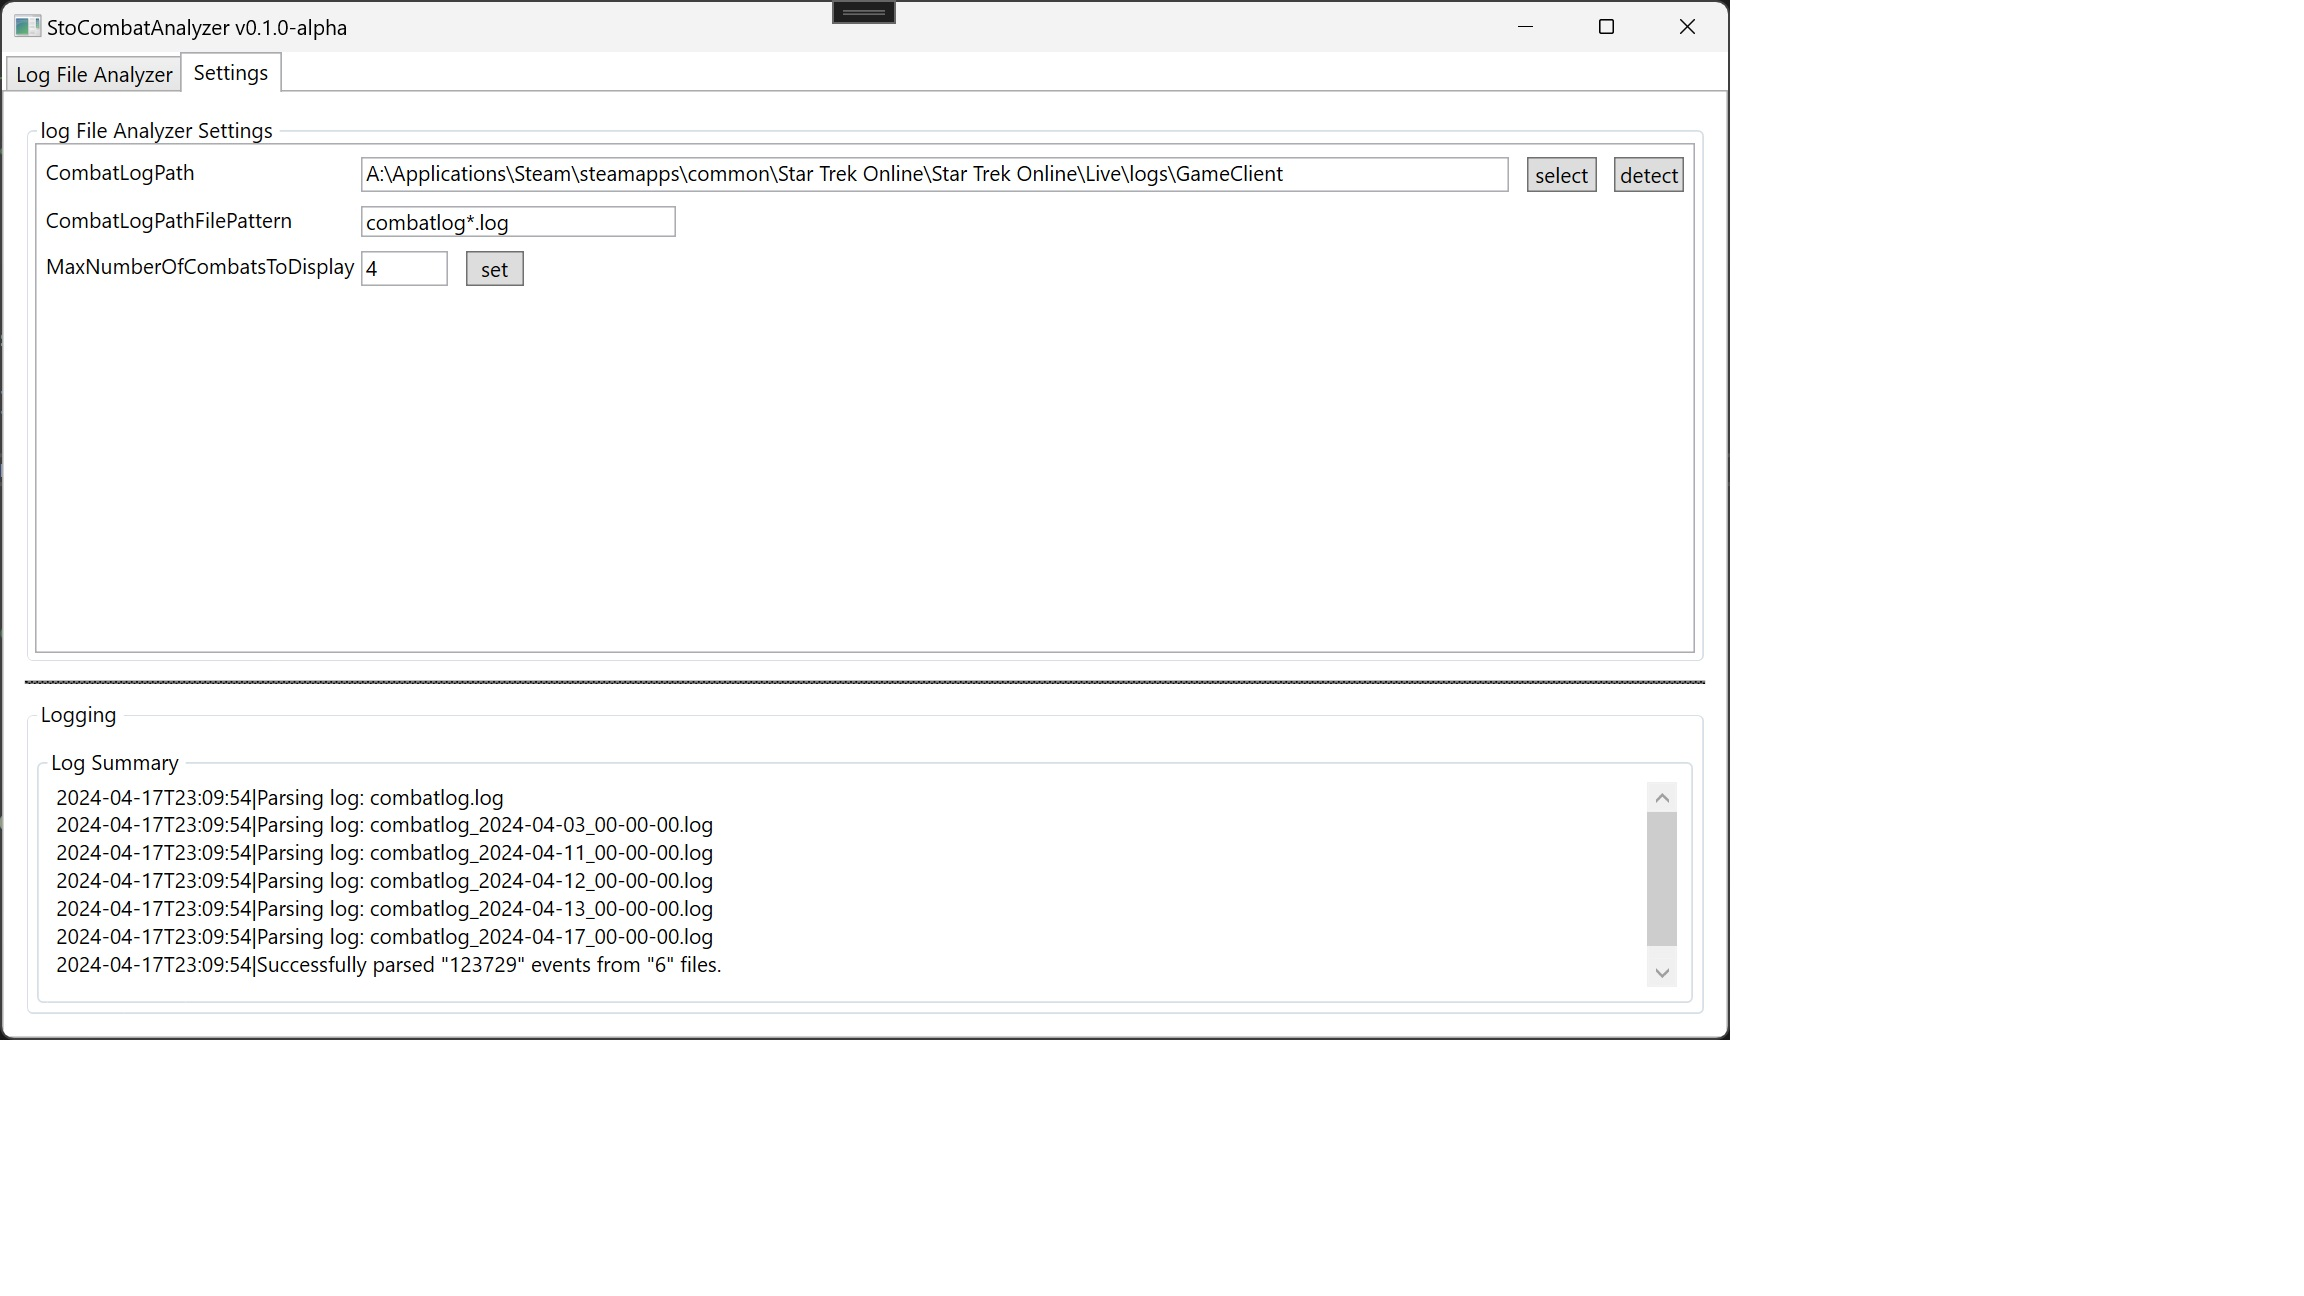
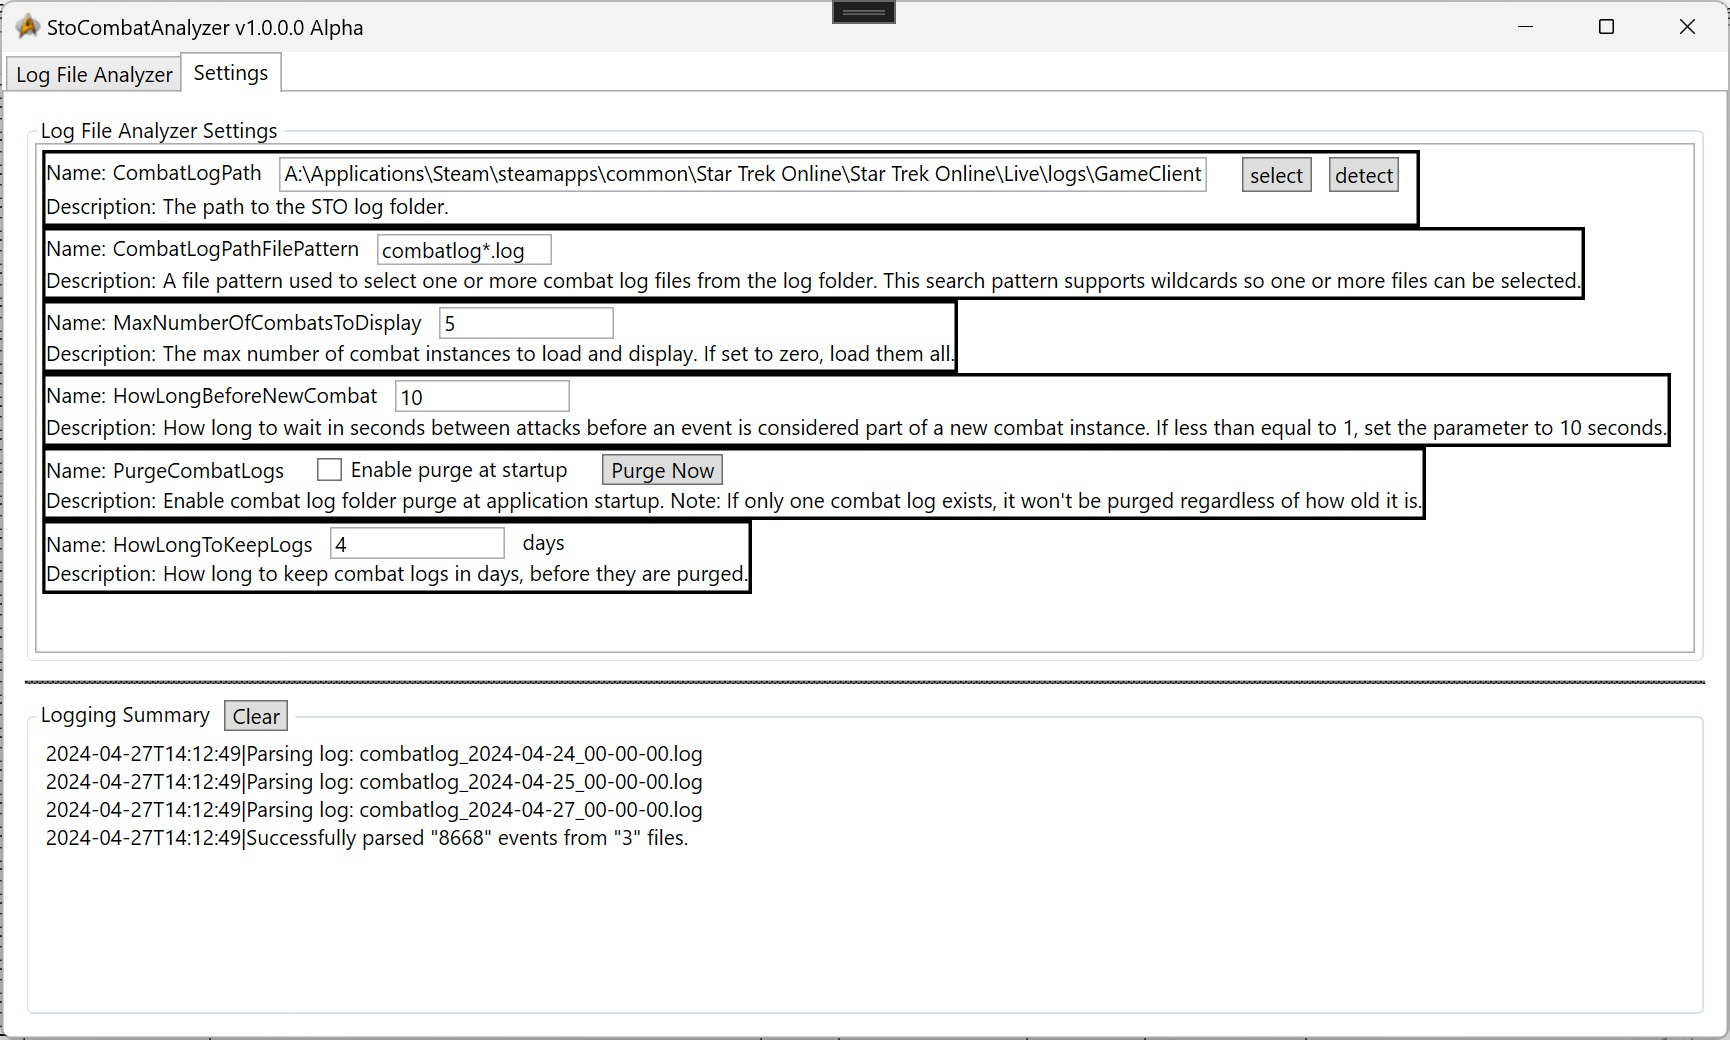
add logic so main plot will clear when a log parse is done.  Added new screen shots to reflect where the application is.

diff --git a/zxeltor.StoCombatAnalyser.Interface/Controls/SettingsUserControl.xaml b/zxeltor.StoCombatAnalyser.Interface/Controls/SettingsUserControl.xaml
@@ -108,7 +108,9 @@
                     </StackPanel>
                     <StackPanel Grid.Row="1" Orientation="Horizontal" Width="Auto">
                         <TextBlock VerticalAlignment="Center" HorizontalAlignment="Center">Description:</TextBlock>
-                        <TextBlock Margin="4,0,0,0" HorizontalAlignment="Stretch" VerticalAlignment="Stretch">How long to keep combat log files in days, before purging them. Note: If only one combat log exists, it won't be purged regardless of how old it is.</TextBlock>
+                        <TextBlock Margin="4,0,0,0" HorizontalAlignment="Stretch" VerticalAlignment="Stretch">
+                            Enable combat log folder purge at application startup. Note: If only one combat log exists, it won't be purged regardless of how old it is.
+                        </TextBlock>
                     </StackPanel>
                 </Grid>
             </ListBoxItem>
@@ -127,7 +129,7 @@
                     </StackPanel>
                     <StackPanel Grid.Row="1" Orientation="Horizontal" Width="Auto">
                         <TextBlock VerticalAlignment="Center" HorizontalAlignment="Center">Description:</TextBlock>
-                        <TextBlock Margin="4,0,0,0" HorizontalAlignment="Stretch" VerticalAlignment="Stretch">How long to keep logs in days, before they are purged. PurgeCombatLogs needs to be enabled for this feature.</TextBlock>
+                        <TextBlock Margin="4,0,0,0" HorizontalAlignment="Stretch" VerticalAlignment="Stretch">How long to keep combat logs in days, before they are purged.</TextBlock>
                     </StackPanel>
                 </Grid>
             </ListBoxItem>

diff --git a/zxeltor.StoCombatAnalyser.Interface/MainWindow.xaml b/zxeltor.StoCombatAnalyser.Interface/MainWindow.xaml
@@ -400,7 +400,14 @@
                         </Grid>
                     </GroupBox>
 
-                    <GroupBox Header="Logging Summary" Grid.Row="1" Margin="10,10,10,10">
+                    <GroupBox Grid.Row="1" Margin="10,10,10,10">
+                        <GroupBox.Header>
+                            <StackPanel Orientation="Horizontal">
+                                <TextBlock>Logging Summary</TextBlock>
+                                <Button Content="Clear" Margin="8,0,0,0" Padding="4,0,4,0"
+                                        Click="ClearLogSummary"/>
+                            </StackPanel>
+                        </GroupBox.Header>
                         <Grid Margin="0,0,0,0">
                             <TextBox x:Name="uiTextBoxLog" Margin="4,4,4,4" BorderThickness="0"
                                             TextWrapping="NoWrap" Text="" HorizontalScrollBarVisibility="Auto"

diff --git a/zxeltor.StoCombatAnalyser.Interface/MainWindow.xaml.cs b/zxeltor.StoCombatAnalyser.Interface/MainWindow.xaml.cs
@@ -162,6 +162,12 @@ public partial class MainWindow : Window
     private void uiButtonParseLog_Click(object sender, RoutedEventArgs e)
     {
         CombatLogManagerContext?.GetCombatLogEntriesFromLogFiles();
+        this.SetPlot();
+    }
+
+    private void ClearLogSummary(object sender, RoutedEventArgs e)
+    {
+        this.uiTextBoxLog.Clear();
     }
 
     private void SendMessageToLogBoxInUi(string logEntryString)
@@ -186,6 +192,7 @@ public partial class MainWindow : Window
     private void SetPlot()
     {
         this.uiScottPlotEntity.Plot.Clear();
+        this.uiScottPlotEntity.Refresh();
 
         if (CombatLogManagerContext?.SelectedCombatEntity == null)
             return;
@@ -214,56 +221,6 @@ public partial class MainWindow : Window
             plot.Color = Color.FromHex("7e00ff");
             plot.Label = "MagnitudeBase";
         }
-
-        this.uiScottPlotEntity.Plot.Legend.Font.Size = 24;
-        this.uiScottPlotEntity.Plot.ShowLegend();
-
-        // tell the plot to display dates on the bottom axis
-        this.uiScottPlotEntity.Plot.Axes.DateTimeTicksBottom();
-        this.uiScottPlotEntity.Refresh();
-    }
-
-    private void SetPlot(object selectedItem)
-    {
-        this.uiScottPlotEntity.Plot.Clear();
-
-        if (CombatLogManagerContext?.SelectedCombatEntity == null)
-            return;
-
-        if (CombatLogManagerContext.IsDisplayPlotMagnitude)
-        {
-            if (selectedItem is CombatEventType combatEventType)
-            {
-                this.uiTextBlockSelectedEntityPlotType.Text = combatEventType.EventDisplay;
-                var plotDataMagnitude = combatEventType.CombatEvents
-                    .OrderBy(ev => ev.Timestamp)
-                    .Select(ev => new { Mag = Math.Abs(ev.Magnitude) / 1000, ev.Timestamp }).ToList();
-                var plot = this.uiScottPlotEntity.Plot.Add.Scatter(
-                    plotDataMagnitude.Select(pd => pd.Timestamp).ToArray(),
-                    plotDataMagnitude.Select(pd => pd.Mag).ToArray());
-                plot.MarkerSize = 15;
-                plot.Label = "Magnitude";
-                plot.Color = Color.FromHex("ff0000");
-            }
-            else if (selectedItem is CombatPetEventType combatPetEventType)
-            {
-            }
-        }
-
-        if (CombatLogManagerContext.IsDisplayPlotMagnitudeBase)
-            if (selectedItem is CombatEventType combatEventType)
-            {
-                this.uiTextBlockSelectedEntityPlotType.Text = combatEventType.EventDisplay;
-                var plotDataMagnitudeBase = combatEventType.CombatEvents
-                    .OrderBy(ev => ev.Timestamp)
-                    .Select(ev => new { Mag = Math.Abs(ev.MagnitudeBase) / 1000, ev.Timestamp }).ToList();
-                var plot = this.uiScottPlotEntity.Plot.Add.Scatter(
-                    plotDataMagnitudeBase.Select(pd => pd.Timestamp).ToArray(),
-                    plotDataMagnitudeBase.Select(pd => pd.Mag).ToArray());
-                plot.MarkerSize = 15;
-                plot.Color = Color.FromHex("7e00ff");
-                plot.Label = "MagnitudeBase";
-            }
 
         this.uiScottPlotEntity.Plot.Legend.Font.Size = 24;
         this.uiScottPlotEntity.Plot.ShowLegend();

diff --git a/README.md b/README.md
@@ -1,4 +1,4 @@
-# Star Trek Online Combat Analyzer ![Latest application version](https://img.shields.io/badge/alpha-v1.1.1.0-blue)
+# Star Trek Online Combat Analyzer ![Latest application version](https://img.shields.io/badge/alpha-v1.0.0.0-blue)
 
 #### Revision History and Updates
 For more information please visit the [WIKI](https://github.com/zxeltor/STOCombatAnalyzer/wiki)
@@ -32,6 +32,9 @@ After you have a successful build, do the following to get started using the app
     - This search pattern supports wildcards so more then one file can be selected.
   - **MaxNumberOfCombatsToDisplay** You can set the number of combat instances to display in the UI after you parse the logs.
     - If you set this to 0 or less, it will display all combat instances
+  - **PurgeCombatLogs** Enable combat log folder purge at application startup.
+    - Note: If only one combat log exists, it won't be purged regardless of how old it is.
+  - **HowLongToKeepLogs** How long to keep logs in days, before they are purged.
 
 ![Settings Tab](zxeltor.StoCombatAnalyser.Interface/Images/StoCombatAnalyzerScreenShot_Settings.jpg)
 - Switch to the Log File Analyzer tab:
